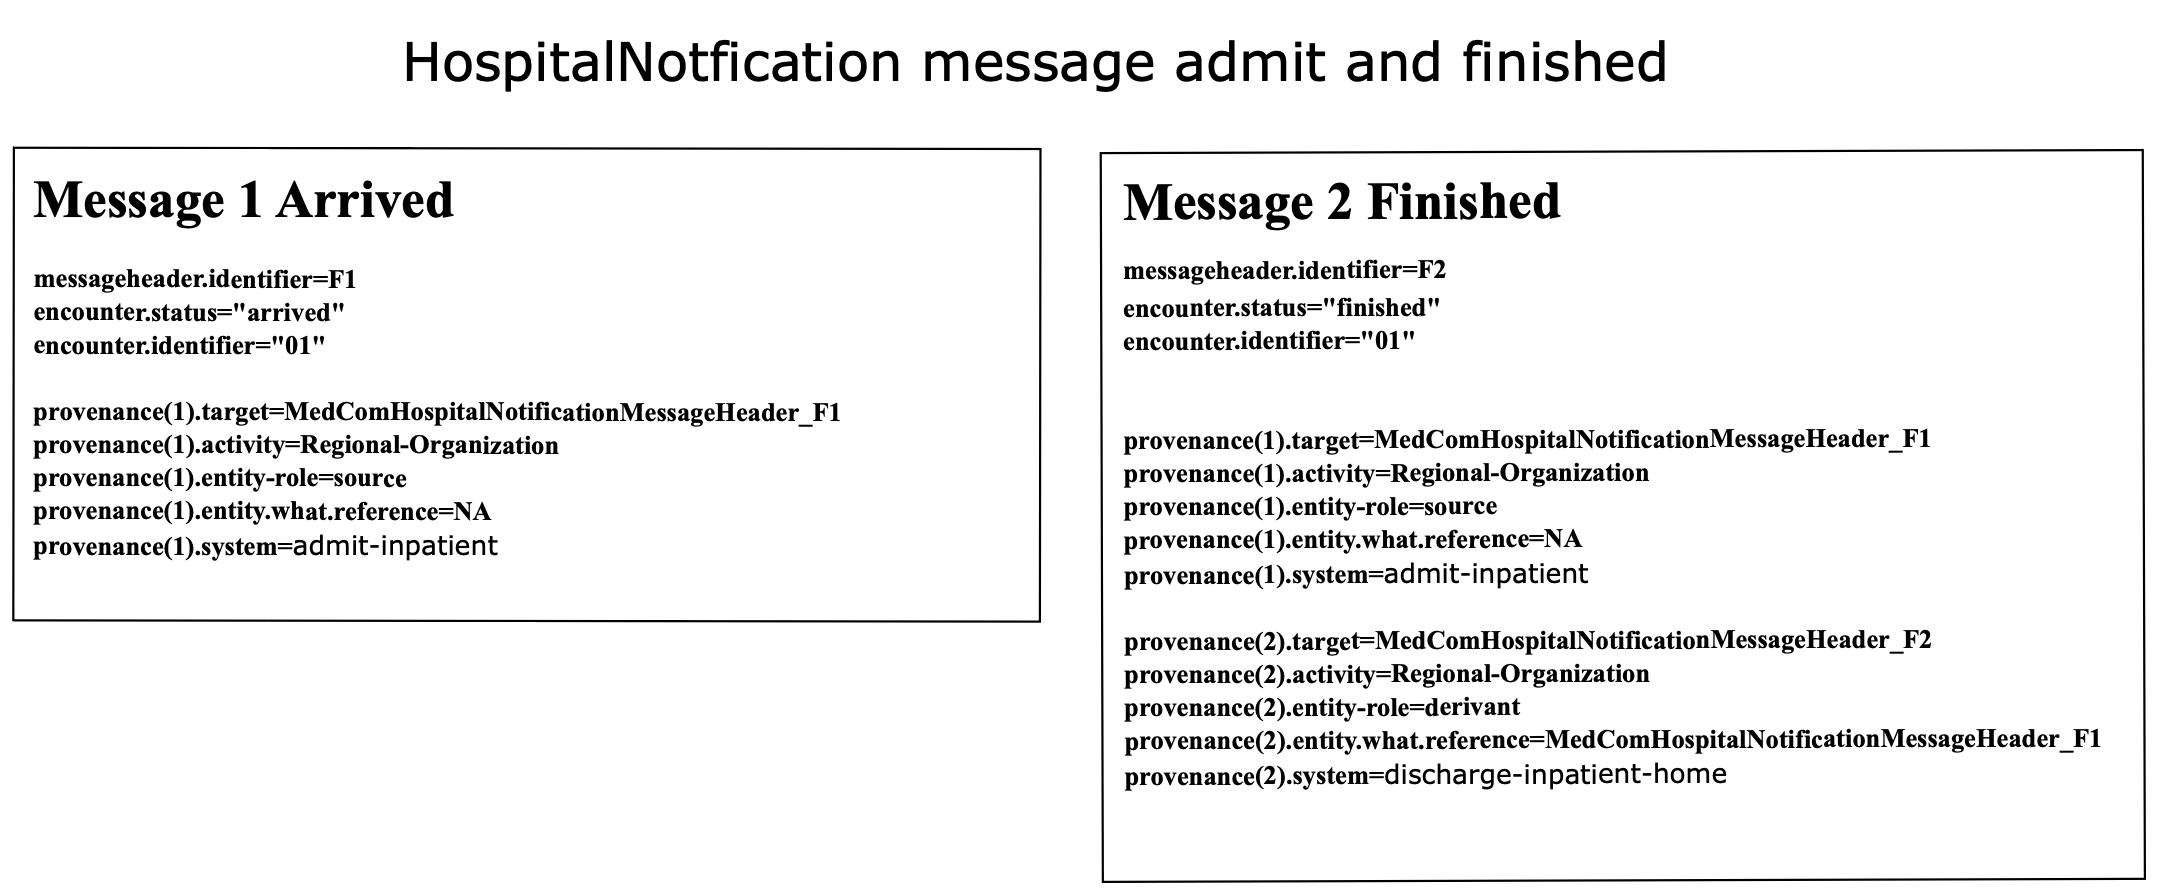
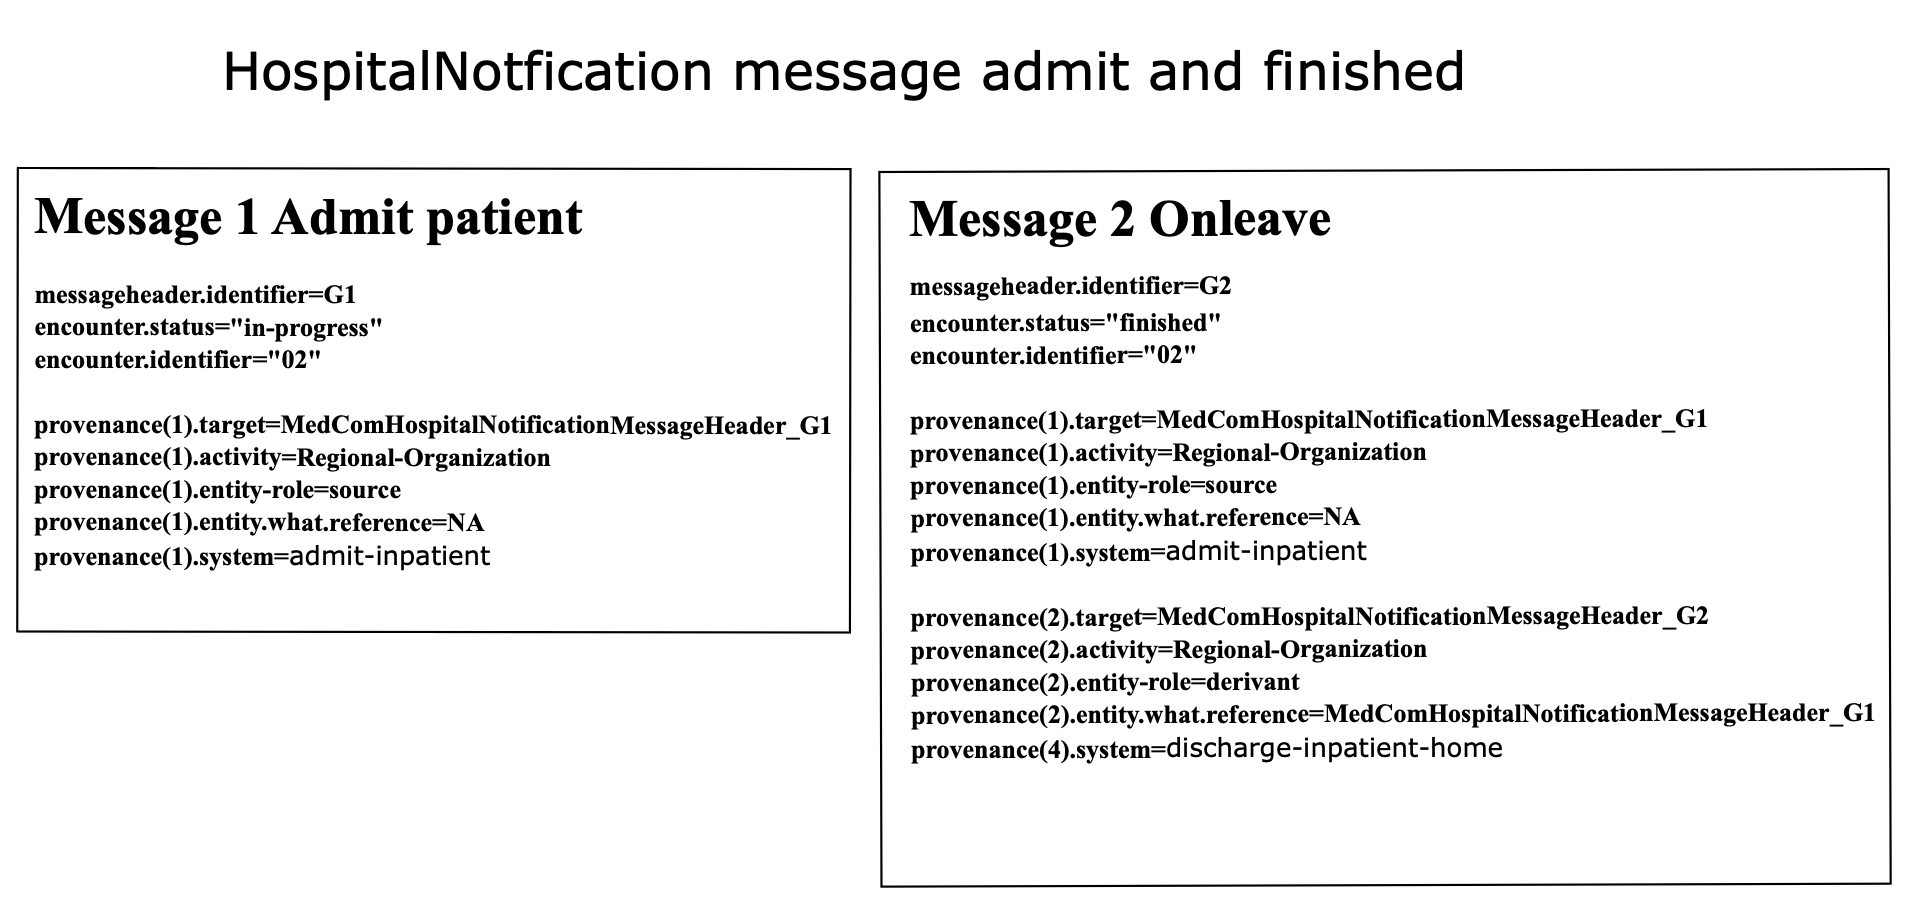
updated hospitalnotification graphic examples with in-progress instead of arrived

Changed region(s): [[0.0, 0.1513, 1.0, 0.9989], [0.0924, 0.0303, 0.7698, 0.1211]]

diff --git a/input/pagecontent/StructureDefinition-medcom-hospitalNotification-message-notes.md b/input/pagecontent/StructureDefinition-medcom-hospitalNotification-message-notes.md
@@ -5,20 +5,20 @@ This section describes how a HospitalNotificationMessage flow.
 
 
 The change of state is dispicted in both the MedComHospitalNotificationEncounter *status*/*class* and the MedComCoreProvenance element *system*.
-Please refer to following map document for details (The document text is at present only in danish).
-[Map between the Provenance *system* and the Encounter *class*/*status* ](./hospitalnotification/pdf/Oversigt_adviskoder_HL7_FHIR.pdf)
+Please refer to following map document for details.  
+[Map between the Provenance *system* and the Encounter *class*/*status* ](./hospitalnotification/pdf/Overview_advis_codes_HL7_FHIR.pdf)
 
 
-Please refer to following example:
+Please refer to following example:  
 * [Simplified example of a MedComHospitalNotificationMessage for admit and finished stay ](./hospitalnotification/HospitalNotificationAdmitFinishedExample.png)
 * [Simplified example of a MedComHospitalNotificationMessage for admit, onleave, end onleave and finished stay ](./hospitalnotification/HospitalNotificationAdmitOnleaveFinishedExample.png)
 
-#### Message entered in error  
+#### Message entered in error    
 This section describes how message entered in error shall be handled.
 
-Please refer to the following examples:
+Please refer to the following examples:  
 * [Simplified example of a MedComHospitalNotificationMessage entered in error ](./hospitalnotification/HospitalNotificationEnteredInErrorExample.png)
 
 #### Data references between MedCom OIOXML advis standard and the MedCom FHIR profile
-Please refer to:
+Please refer to:  
 * [OIOXML advis -> HospitalNotification ](./hospitalnotification/oioxmlReferencesHospitalNotificaion.png)
